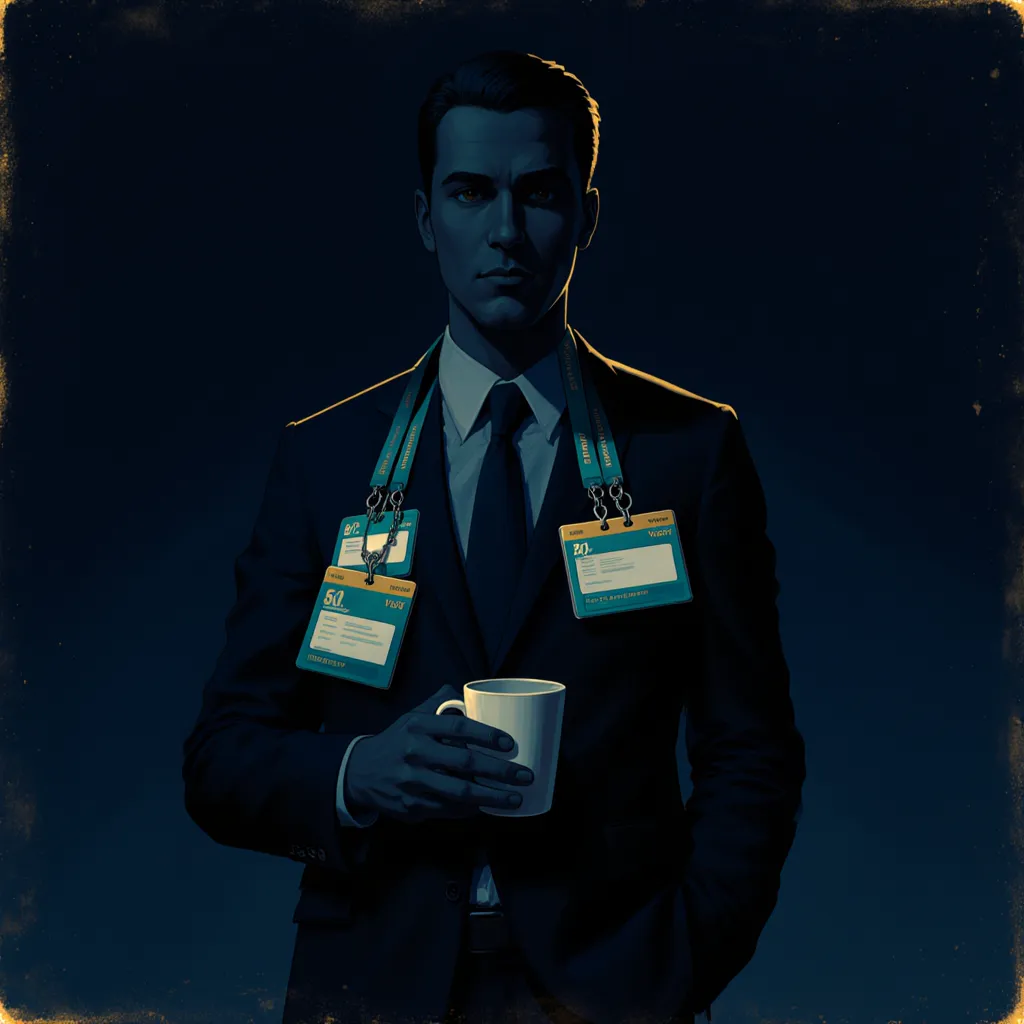
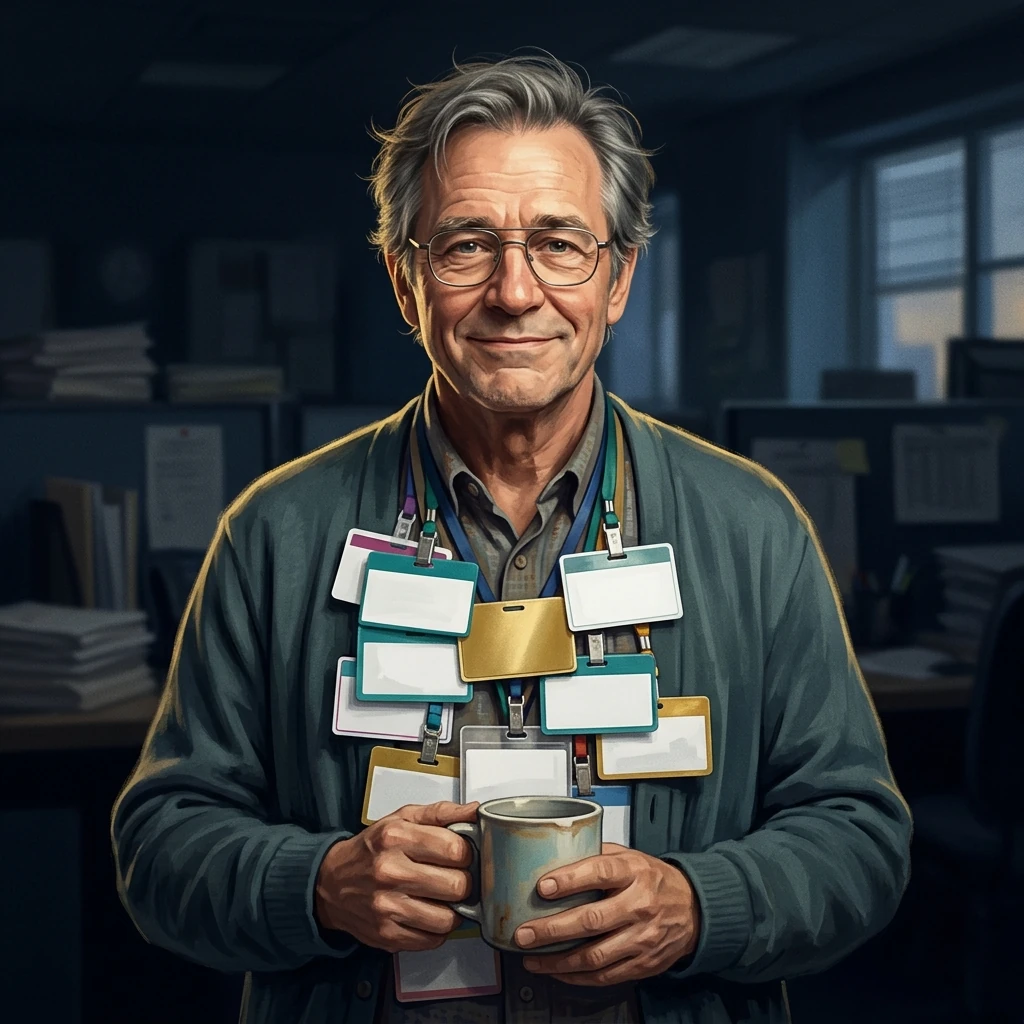
feat(art): le set des 10 illustrations signature, refait avec le socle corrige (#97)
Les 8 images du 20/10 avaient les visages dans l'ombre : leur socle de prompt
ne demandait qu'un contre-jour, alors que DESIGN.md §6.1 impose une lumiere
principale sur le VISAGE. Elles sont remplacees par des rendus du socle
corrige, et support-responsable-support — jamais produite — entre au registre.
Le set des 10 signature est donc complet.

Production : gflow-cli 0.86.0, modele nano2 (Nano Banana 2.1 sur
flow.google.com, #958), aspect 1:1, graines consignees au journal vivant.

Curation : une variante retenue sur quatre, critere « visage large et bien
eclaire a la taille d'une carte, objet signature du brief lisible, accent de
faction present » — c'est le critere qui repond au defaut des 8 precedentes.
Les quatre candidats de chaque carte restent dans .scratch/gflow/ (gitignore) ;
--installe en change une sans regenerer.

Set provisoire : une autre DA le refera.

Les deux COPIES partent ensemble — le registre (design/illustrations/) et le
servi (public/design/illustrations/) — parce qu'illustrations-servies.test.ts
exige meme liste et memes octets (SHA-256), et art.test.ts exige qu'aucune
image servie ne soit orpheline.

check 0 · 525 tests · garde-fous 13/13 · build 0

diff --git a/src/data/support.ts b/src/data/support.ts
@@ -51,7 +51,8 @@ export const SUPPORT_CARDS: PlanqueCard[] = [
       { name: 'FAQ', cost: ['INCOLORE', 'INCOLORE'], damage: 50, text: 'Pioche 2 cartes.', effects: [{ kind: 'draw', amount: 2 }] },
       { name: 'Chatbot', cost: ['INCOLORE', 'INCOLORE', 'INCOLORE'], damage: 80, text: 'Le Planqué adverse est Dérivé.', effects: [{ kind: 'status', status: 'DERIVE', target: 'opponent' }] }
     ],
-    flavor: 'Le chatbot a compris. Personne n’a compris le chatbot.'
+    flavor: 'Le chatbot a compris. Personne n’a compris le chatbot.',
+    art: 'support-responsable-support.webp'
   }),
   base({
     id: 'support-responsable-support-ex',

diff --git a/design/illustrations/README.md b/design/illustrations/README.md
@@ -21,14 +21,14 @@
 
 | Carte (`id`) | Faction | Sujet | Graine | Fichier |
 |---|---|---|---|---|
-| `sse-medecin-travail` | SSE | médecin du travail, blouse, porte-bloc | `1704499335` | `sse-medecin-travail.webp` |
-| `management-responsable-unite` | Management | responsable d'unité, porte-bloc, sourire en coin | `716107998` | `management-responsable-unite.webp` |
-| `qvt-chief-happiness-officer` | QVT | chief happiness officer, ballons et autocollants | `597664813` | `qvt-chief-happiness-officer.webp` |
-| `amelioration-directeur-qualite` | Amélioration continue | directeur qualité, classeur de procédures | `484642457` | `amelioration-directeur-qualite.webp` |
-| `rh-drh` | RH | DRH devant un organigramme | `600082756` | `rh-drh.webp` |
-| `atelier-chef-atelier` | Atelier | chef d'atelier, combinaison tachée, clé | `1777646571` | `atelier-chef-atelier.webp` |
-| `syndicat-secretaire-general` | Syndicat | secrétaire général, fanion et insigne | `434211236` | `syndicat-secretaire-general.webp` |
-| `interim-interimaire-legendaire-ex` | Intérim | intérimaire légendaire, badges empilés, tasse | `632167755` | `interim-interimaire-legendaire-ex.webp` |
+| `sse-medecin-travail` | SSE | médecin du travail, blouse, porte-bloc | `37109154` | `sse-medecin-travail.webp` |
+| `management-responsable-unite` | Management | responsable d'unité, porte-bloc, sourire en coin | `1323131255` | `management-responsable-unite.webp` |
+| `qvt-chief-happiness-officer` | QVT | chief happiness officer, ballons et autocollants | `1867736723` | `qvt-chief-happiness-officer.webp` |
+| `amelioration-directeur-qualite` | Amélioration continue | directeur qualité, classeur de procédures | `1325355317` | `amelioration-directeur-qualite.webp` |
+| `rh-drh` | RH | DRH devant un organigramme | `245800676` | `rh-drh.webp` |
+| `atelier-chef-atelier` | Atelier | chef d'atelier, combinaison tachée, clé | `1491963894` | `atelier-chef-atelier.webp` |
+| `syndicat-secretaire-general` | Syndicat | secrétaire général, fanion et insigne | `1286126774` | `syndicat-secretaire-general.webp` |
+| `interim-interimaire-legendaire-ex` | Intérim | intérimaire légendaire, badges empilés, tasse | `64234642` | `interim-interimaire-legendaire-ex.webp` |
 
 ## Non produites — quota
 
@@ -36,7 +36,6 @@ Le **quota gratuit ZeroGPU** du compte Hugging Face a été épuisé en fin de s
 
 | Carte (`id`) | Faction | Sujet | Accent | État |
 |---|---|---|---|---|
-| `support-responsable-support` | Support | responsable support, casque, patient | blanc argenté | **à générer** |
 
 Pour la produire (et les 276 suivantes) :
 
@@ -82,3 +81,12 @@ source, empreinte calculée par Vite, et **erreur au build** sur un `art` inconn
 
 - 2026-10-21 · `direction-pdg` · modèle `NARWHAL` · graine `147016633` · `direction-pdg.webp`
 - 2026-10-21 · `direction-pdg` · modèle `NARWHAL` · graine `1180968490` · `direction-pdg.webp`
+- 2026-10-21 · `sse-medecin-travail` · modèle `NARWHAL` · graine `37109154` · `sse-medecin-travail.webp`
+- 2026-10-21 · `management-responsable-unite` · modèle `NARWHAL` · graine `1323131255` · `management-responsable-unite.webp`
+- 2026-10-21 · `qvt-chief-happiness-officer` · modèle `NARWHAL` · graine `1867736723` · `qvt-chief-happiness-officer.webp`
+- 2026-10-21 · `amelioration-directeur-qualite` · modèle `NARWHAL` · graine `1325355317` · `amelioration-directeur-qualite.webp`
+- 2026-10-21 · `rh-drh` · modèle `NARWHAL` · graine `245800676` · `rh-drh.webp`
+- 2026-10-21 · `atelier-chef-atelier` · modèle `NARWHAL` · graine `1491963894` · `atelier-chef-atelier.webp`
+- 2026-10-21 · `syndicat-secretaire-general` · modèle `NARWHAL` · graine `1286126774` · `syndicat-secretaire-general.webp`
+- 2026-10-21 · `interim-interimaire-legendaire-ex` · modèle `NARWHAL` · graine `64234642` · `interim-interimaire-legendaire-ex.webp`
+- 2026-10-21 · `support-responsable-support` · modèle `NARWHAL` · graine `1602293889` · `support-responsable-support.webp`
